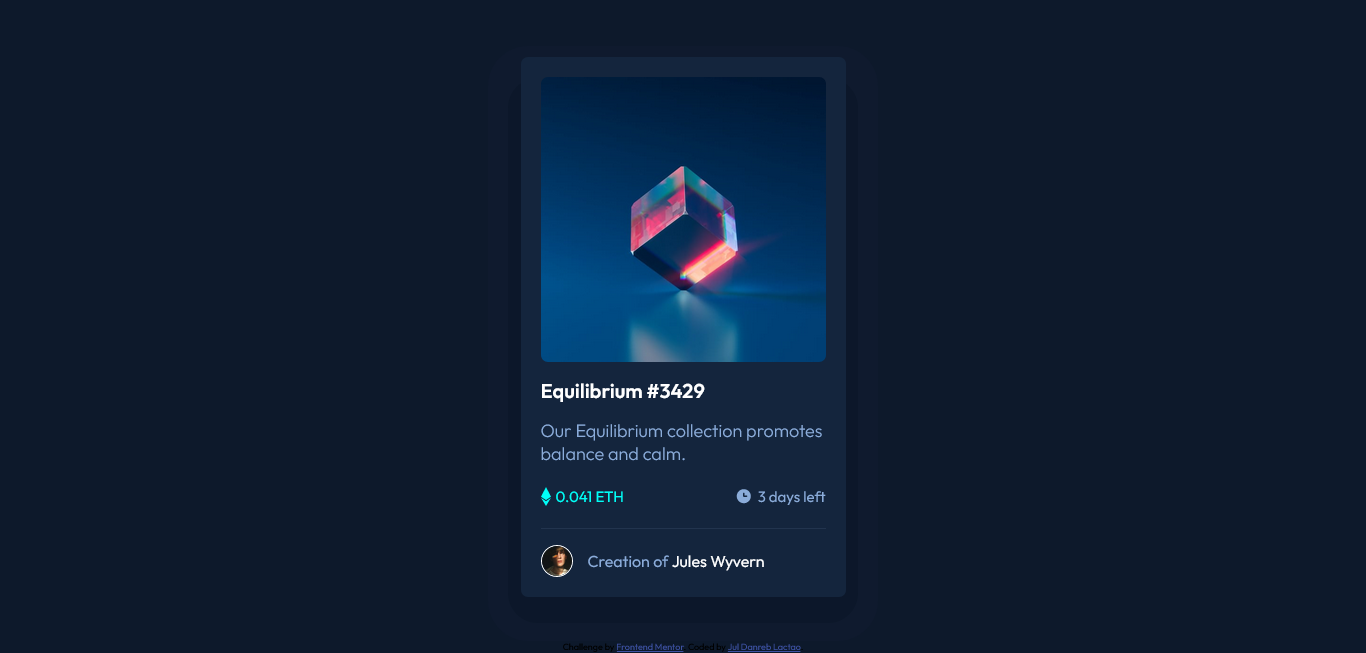
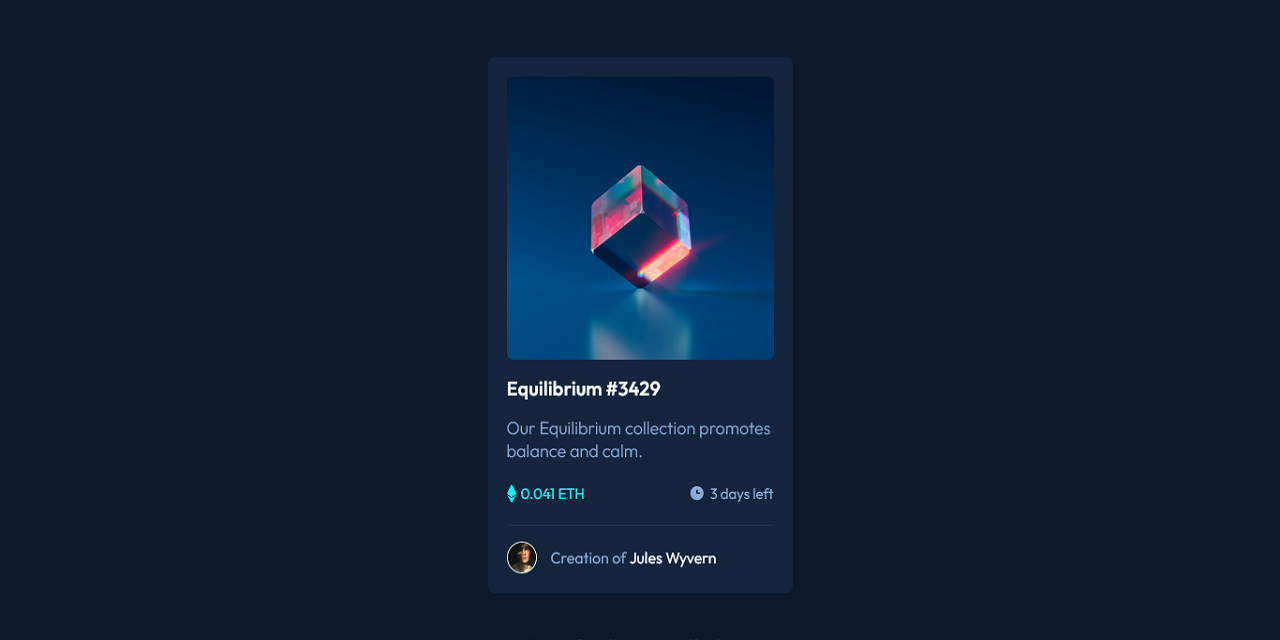
second commit

diff --git a/index.html b/index.html
@@ -10,17 +10,16 @@
 
 </head>
 <body>
-  
-    <div id="container">
-      <div id="card">
-          <div id="card-container">
-              <img src="./images/image-equilibrium.jpg" alt="nft image" id="nft-image"/>
-              <a href="#">
-                <div id="icon-view">
-                  <img src="./images/icon-view.svg" alt="view icon overlay above nft image" />
-                </div>
-              </a>
+  <main>
+    <div id="card">
+      <div id="card-container">
+        <img src="./images/image-equilibrium.jpg" alt="nft image" id="nft-image"/>
+        <a href="#">
+          <div id="icon-view">
+            <img src="./images/icon-view.svg" alt="view icon overlay above nft image" />
           </div>
+        </a>
+      </div>    
         <p id="card-title"><a href="#">Equilibrium #3429</a></p>
         <p id="card-description">Our Equilibrium collection promotes balance and calm.</p>
 
@@ -39,13 +38,13 @@
           <img src="./images/image-avatar.png" alt="photo of the creator"/>
           <p><span>Creation of </span><a href="#">Jules Wyvern</a></p>
         </div>
-      </div>
-      
-    </div> 
-  <div id="primary-shadow">   
-  </div>
-  <div id="secondary-shadow">   
-  </div>
+    </div>
+    <div id="primary-shadow">   
+    </div>
+    <div id="secondary-shadow">   
+    </div>
+  </main>  
+
   <div class="attribution">
     <p>Challenge by <a href="https://www.frontendmentor.io?ref=challenge" target="_blank">Frontend Mentor</a>. 
     Coded by <a href="https://www.twitter.com/julfinch">Jul Danreb Lactao</a>.

diff --git a/style.css b/style.css
@@ -11,39 +11,9 @@ html {
     min-height: 100vh;
     background: hsl(217, 54%, 11%);
     font-family: 'Outfit', sans-serif;
-}
-#container {
     display: flex;
-    position: absolute;
-    z-index: 10;
-    top: 50%;
-    left: 50%;
-    transform: translate(-50%, -50%);
-}
-#primary-shadow {
-    z-index: 1;
-    width: 350px;
-    height: 545px;
-    position: absolute;
-    background: hsla(215, 57%, 10%, 0.596);
-    top: 12%;
-    left: 50%;
-    transform: translateX(-50%);
-    border-radius: 30px;
-}
-#secondary-shadow {
-    width: 390px;
-    height: 595px;
-    background: hsl(219, 51%, 12%);
-    position: absolute;
-    left: 50%;
-    top: 7%;
-    transform: translateX(-50%);
-    border-radius: 40px;
-}
-#container a {
-    color: hsl(0, 0%, 100%);
-    text-decoration: none;
+    justify-content: center;
+    align-items: center;
 }
 #card {
     width: 325px;
@@ -51,6 +21,10 @@ html {
     background: hsl(216, 50%, 16%);
     padding: 20px;
     border-radius: 7px;
+}
+#card a {
+    color: hsl(0, 0%, 100%);
+    text-decoration: none;
 }
 #card a:hover {
     color: hsl(178, 100%, 50%);

diff --git a/README.md b/README.md
@@ -37,8 +37,6 @@ Users should be able to:
 1. Created a div to put all details in the nft card .
 2. After everything is already in place, I focused next on putting the overlay image of icon-view above the nft art image.
 3. Then put the card at the middle of the page.
-4. After that, I created two divs to become my primary and secondary shadow at the back of the card to crete depth.
-
 ### Built with
 
 - Semantic HTML5 markup
@@ -49,7 +47,8 @@ Users should be able to:
 
 This challenge gave me my first implementation of overlaying an image over another and applying opacity to it. I've learned a lot about it.
 
-I also was able to play a lot on how to put the shadow effect at the back of the card by creating two divs named as primary-shadow and secondary-shadow.
+EDIT:
+In my first commit, I used absolute positioning to center the card. After posting the solution in frontendmentor, I got a feedback from Mr. Deniel Den (@denielden) and he gave me several tips to improve my code. Aside from suggesting to add a main tag to wrap the card for accessibility, he also mentioned to use modern css like flexbox or grid to center the card instead of using absolute positioning since it is already "deprecated". I have no idea that it is already so, his feedback was really a big help.
 
 ### Useful resources
 
@@ -57,7 +56,6 @@ I also was able to play a lot on how to put the shadow effect at the back of the
 
 ## Author
 
-- Website - [Add your name here](https://www.your-site.com)
 - Frontend Mentor - [@julfinch](https://www.frontendmentor.io/profile/julfinch)
 - Twitter - [@julfinch](https://www.twitter.com/julfinch)
 
